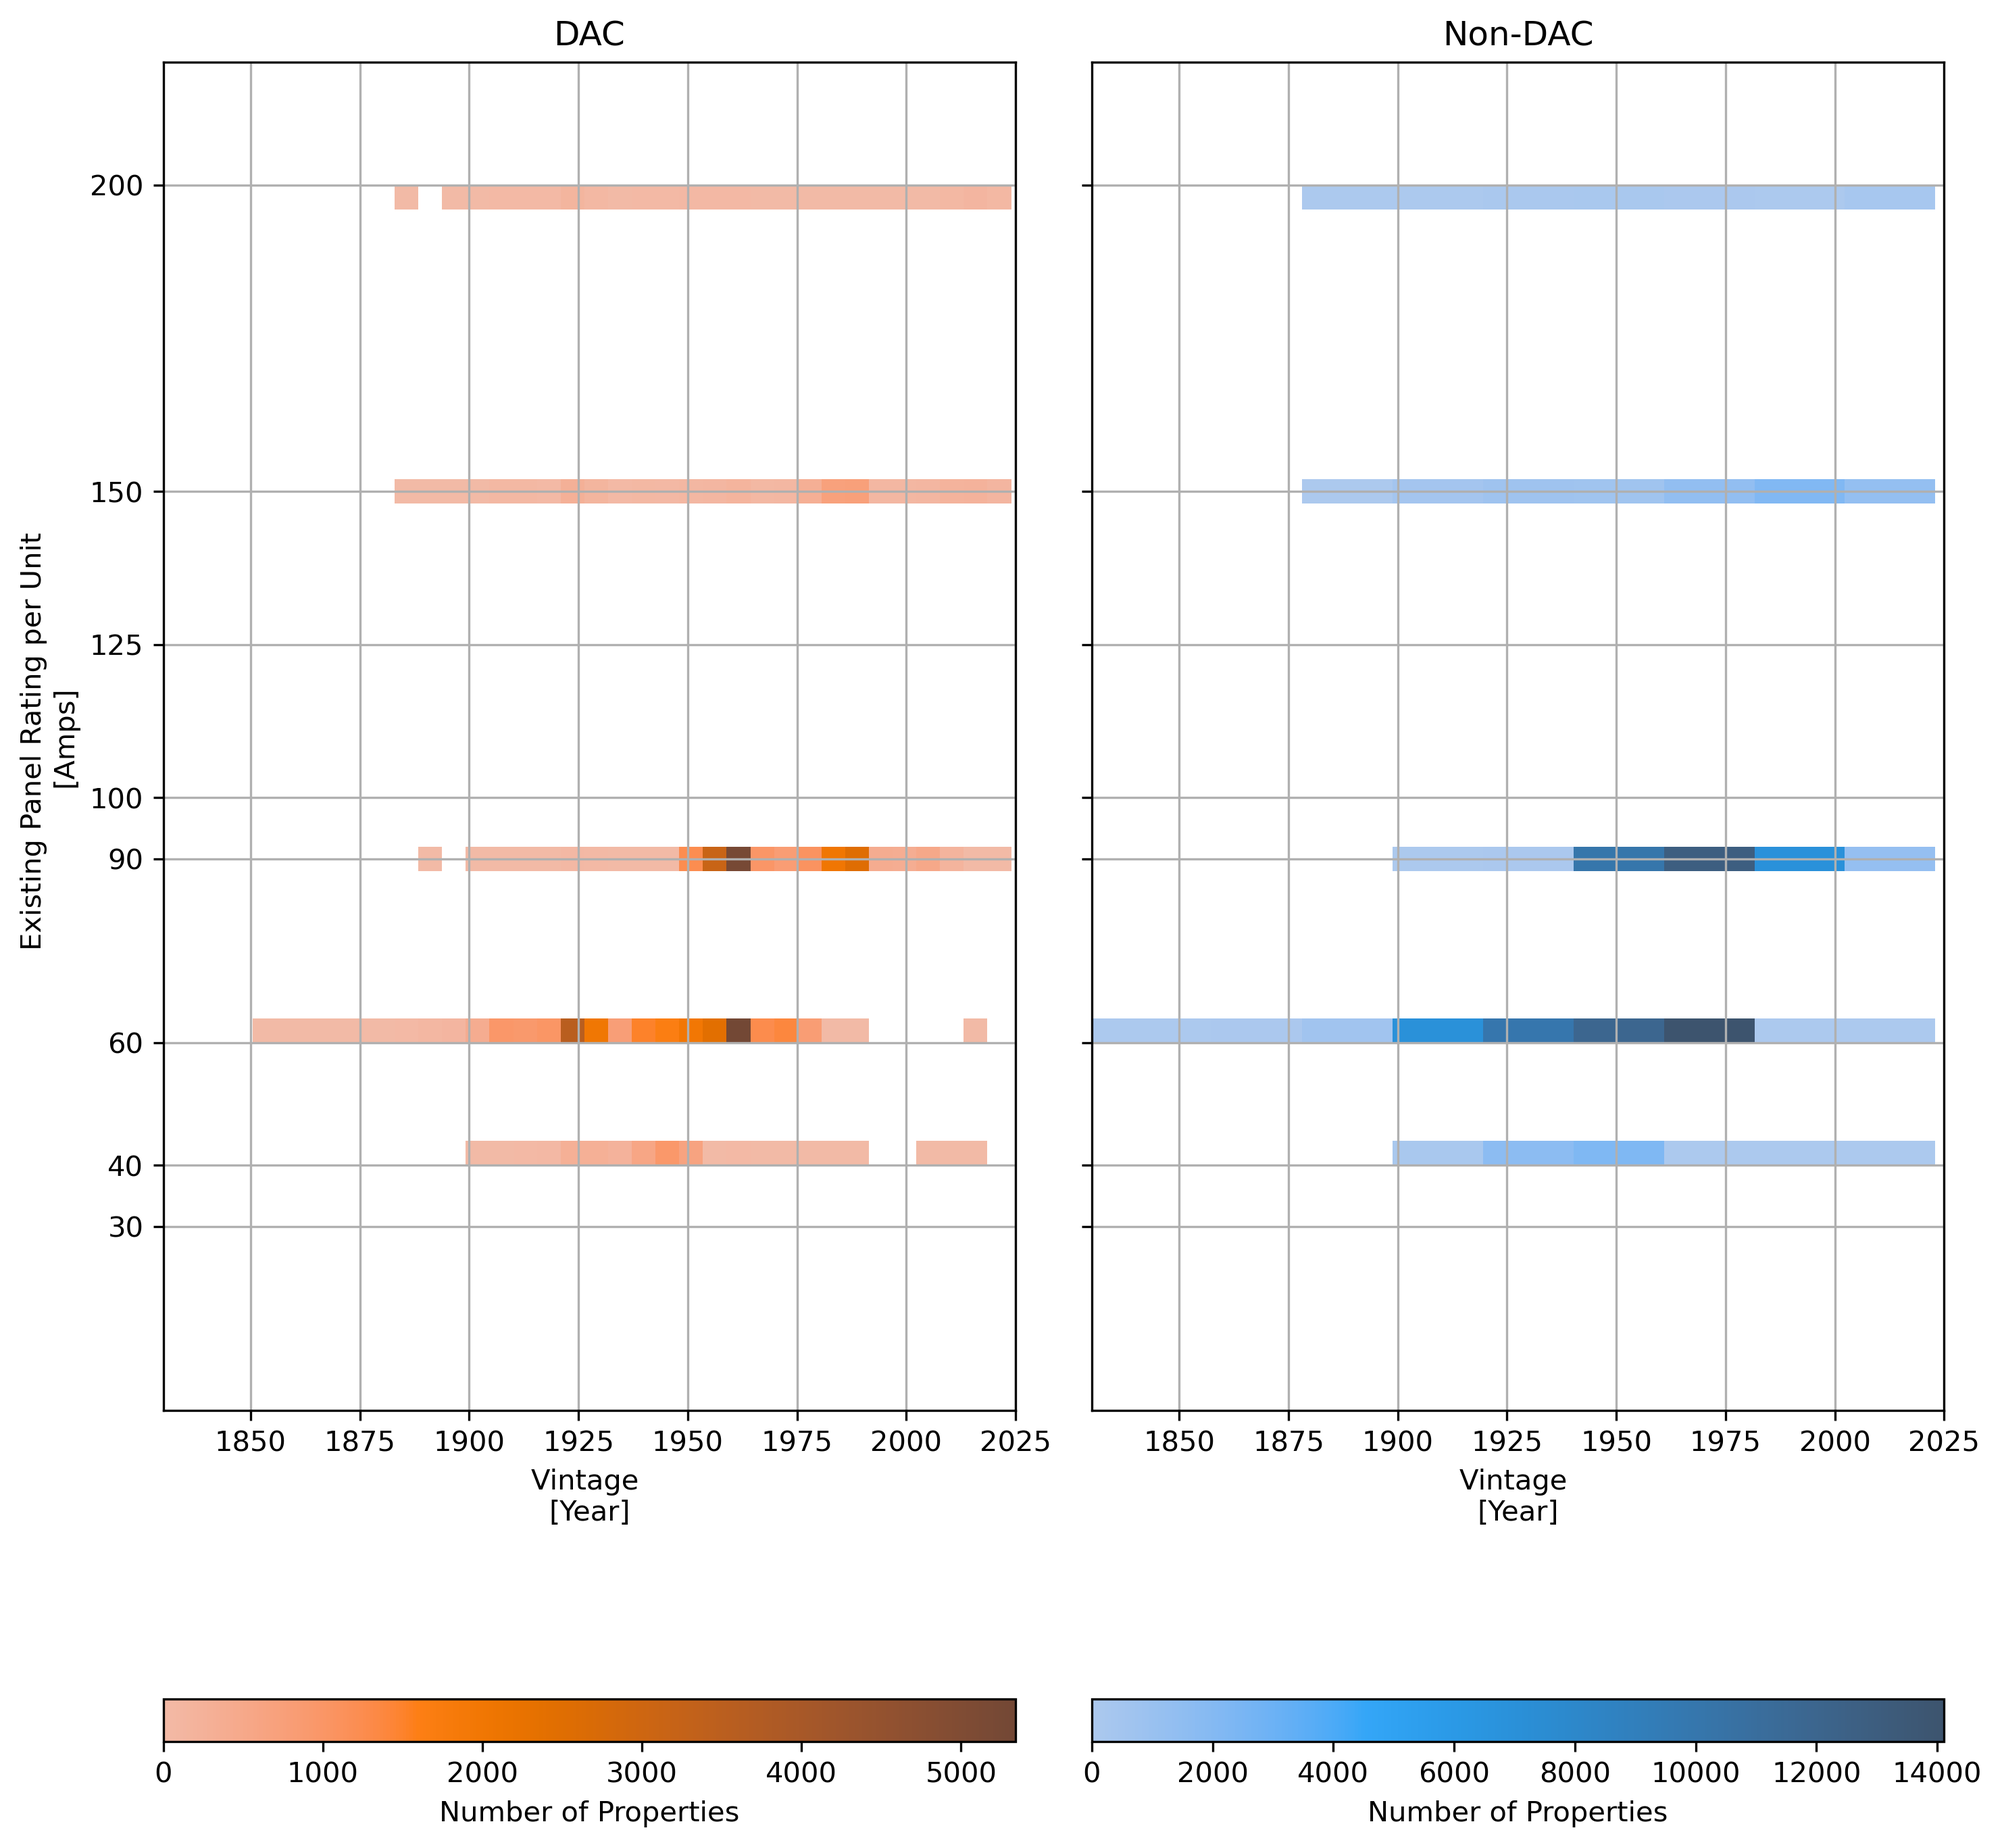
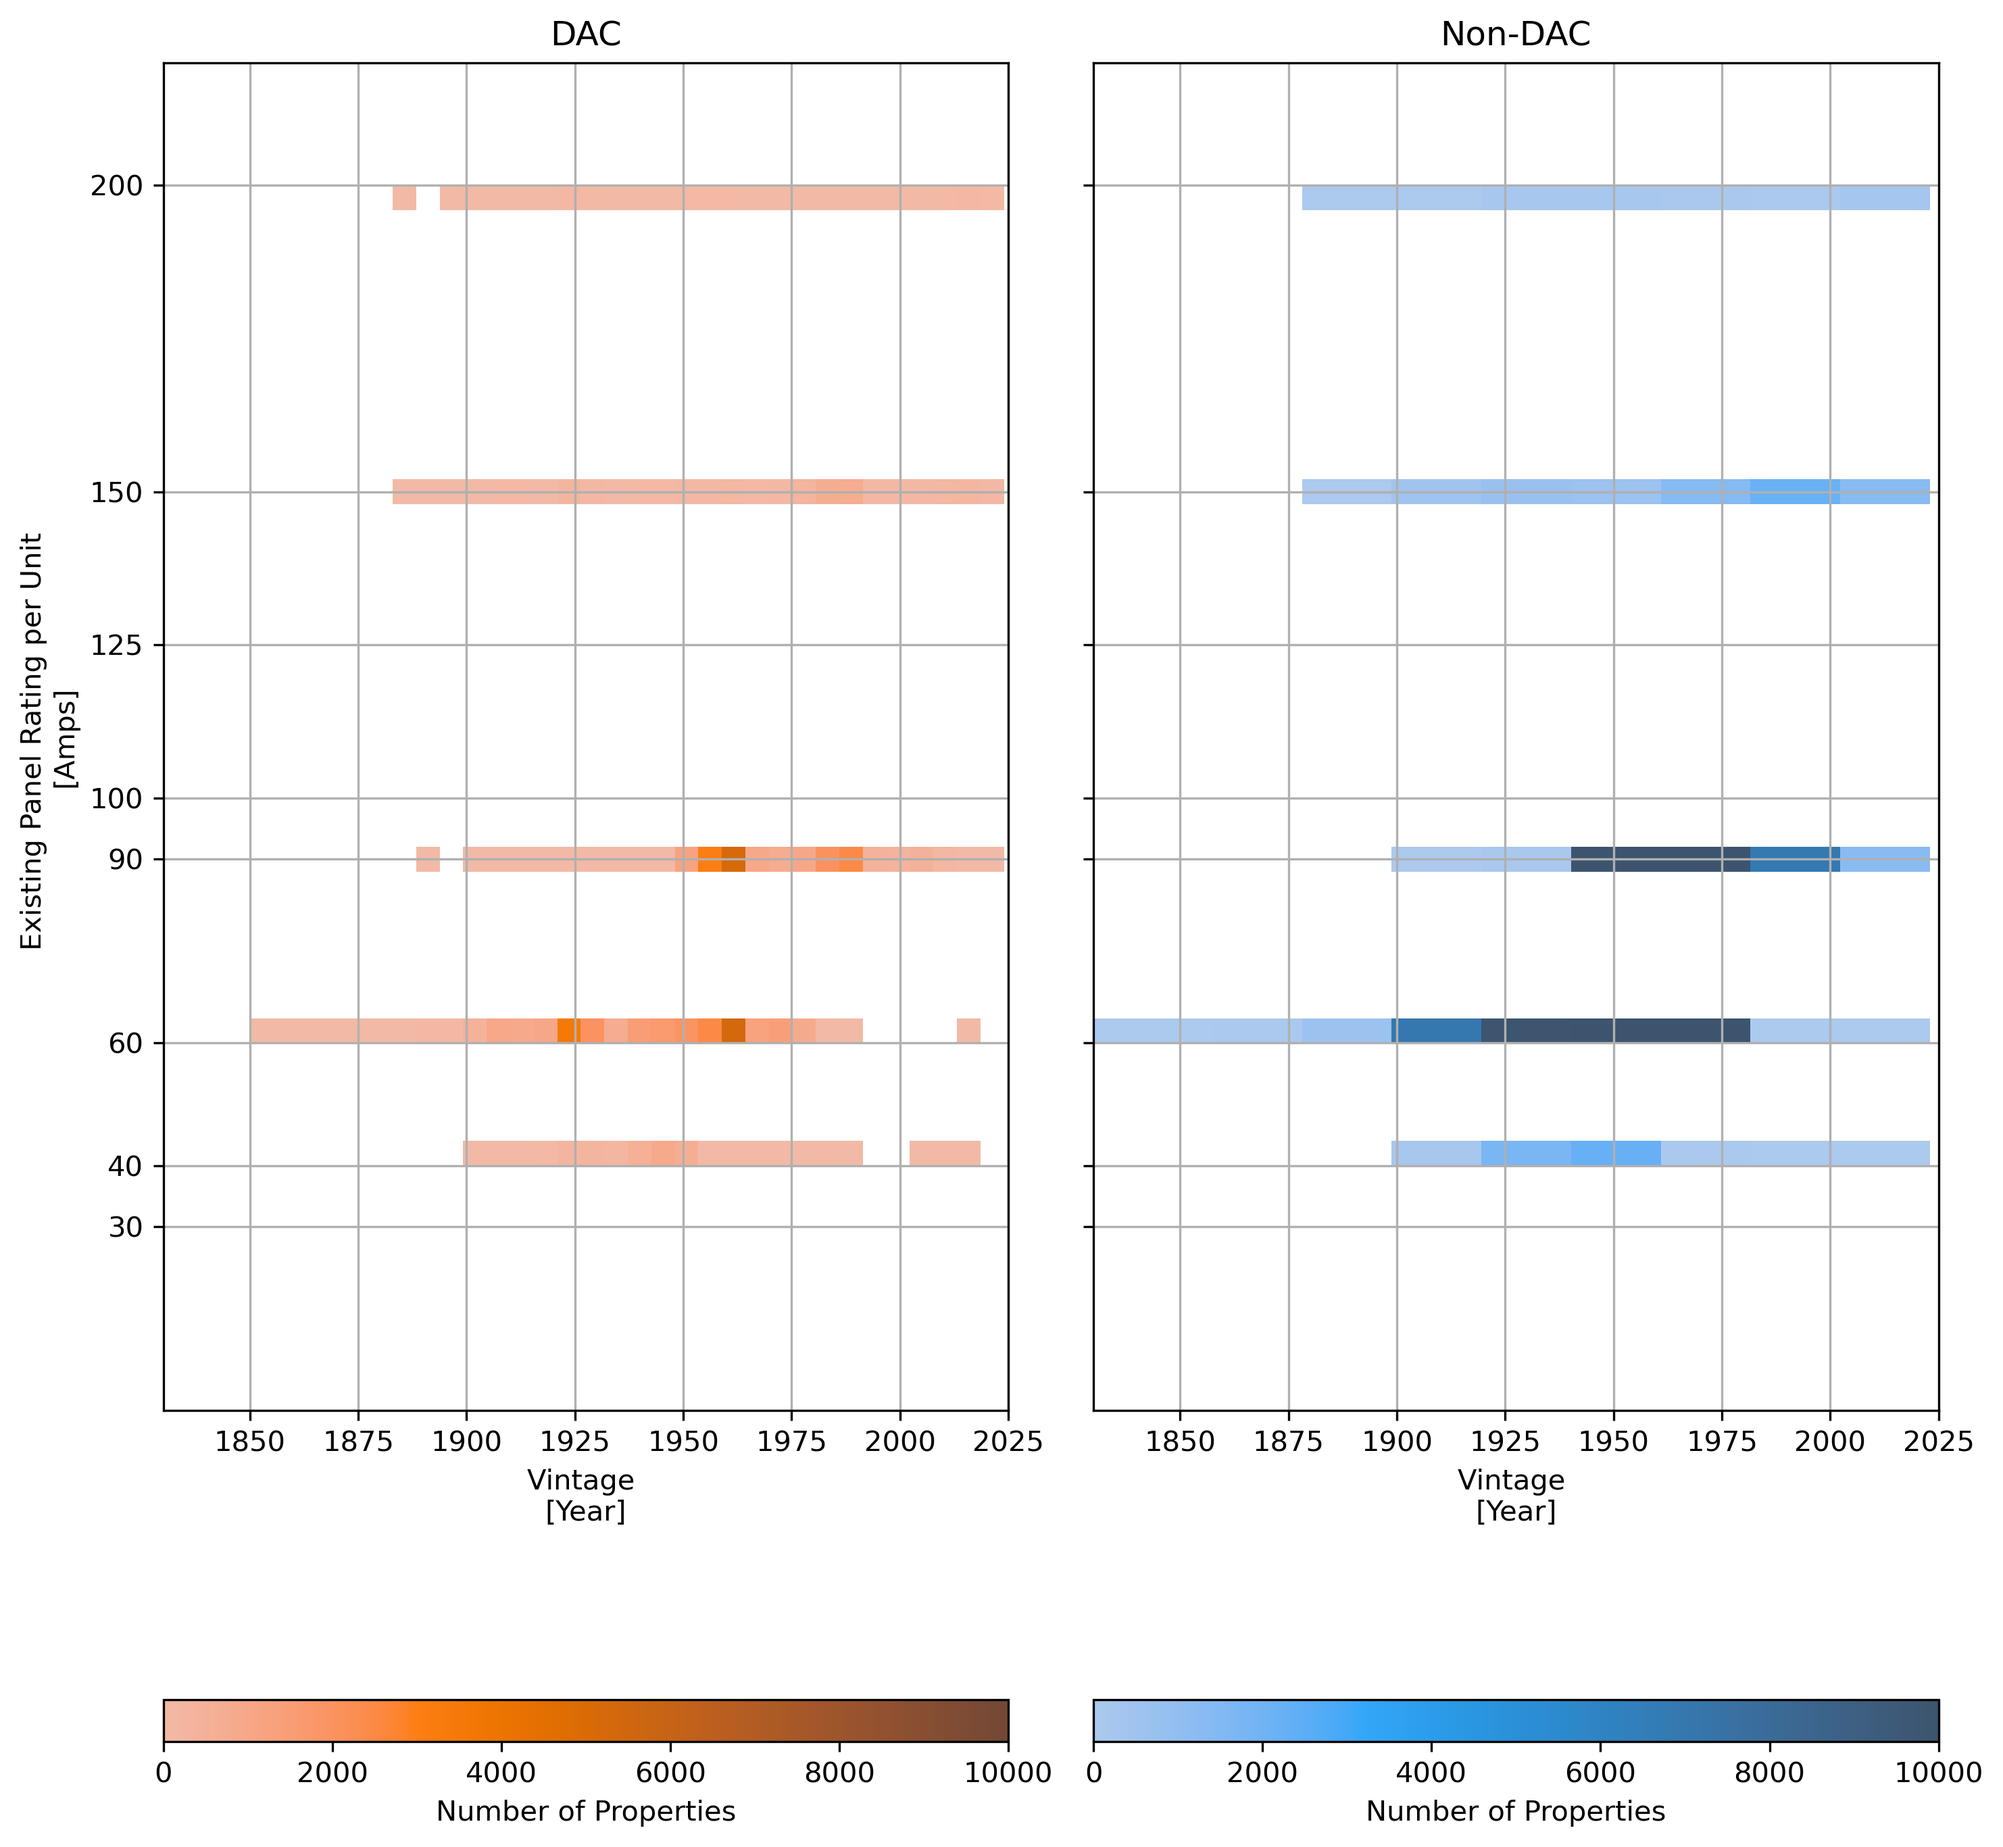
Update plots based upon corelogic vintage year fix

diff --git a/analyses/model_data/corelogic/model_data_analysis.py b/analyses/model_data/corelogic/model_data_analysis.py
@@ -45,8 +45,7 @@ query = ''' SELECT  A.*,
             JOIN corelogic.model_data_sf_inference AS B
                 ON A.megaparcelid = B.megaparcelid
             JOIN corelogic.megaparcels_geocoded_geographies AS C
-                ON A.megaparcelid = C.megaparcelid
-            WHERE A.YearBuilt <= 2024;'''
+                ON A.megaparcelid = C.megaparcelid;'''
 
 sf = pd.read_sql(query, db_con)
 
@@ -368,13 +367,15 @@ def AsBuiltPanelRatingsHist(mp, sector, figure_dir):
         yticks = [30, 60, 100, 125, 150, 200, 225, 320, 400, 600, 800, 1000, 1200]
         bins = 80
         ylabel = 'As-Built Panel Rating \n[Amps]'
+        vmin = 0
+        vmax = 1000000
     elif sector == 'multi_family':
         ylim = [0, 220]
         yticks = [30, 40, 60, 90, 100, 125, 150, 200]
         bins = 40
         ylabel = 'Average As-Built Load Center Rating Per Unit\n[Amps]'
-
-    log_norm = LogNorm(vmin=0, vmax=1000000)
+        vmin = 0
+        vmax = 10000
 
     sns.histplot(x = 'YearBuilt',
         y = 'panel_size_as_built',
@@ -385,8 +386,9 @@ def AsBuiltPanelRatingsHist(mp, sector, figure_dir):
         legend = True,
         label = 'Priority Population',
         cbar = True,
-        cbar_kws = {'label':'Number of Properties', 'orientation':'horizontal'}
-        )
+        cbar_kws = {'label':'Number of Properties', 'orientation':'horizontal'},
+        vmin = vmin,
+        vmax = vmax)
 
     sns.histplot(x = 'YearBuilt',
         y = 'panel_size_as_built',
@@ -397,8 +399,9 @@ def AsBuiltPanelRatingsHist(mp, sector, figure_dir):
         legend = True,
         label = 'Non-Priority Population',
         cbar = True,
-        cbar_kws = {'label':'Number of Properties', 'orientation':'horizontal'}
-        )
+        cbar_kws = {'label':'Number of Properties', 'orientation':'horizontal'},
+        vmin = vmin,
+        vmax = vmax)
 
     ax[0].set_yticks(yticks)
 
@@ -532,11 +535,15 @@ def ExistingPanelRatingsHist(mp, sector, figure_dir):
         ylim = (0, 1220)
         ylabel = 'Existing Panel Rating \n[Amps]'
         bins = 80
+        vmin = 0
+        vmax = 1000000
     elif sector == 'multi_family':
         yticks = [30, 40, 60, 90, 100, 125, 150, 200]
         ylim = (0, 220)
         ylabel = 'Existing Panel Rating per Unit \n[Amps]'
         bins = 40
+        vmin = 0
+        vmax = 10000
 
     fig, ax = plt.subplots(1,2,figsize = (10,10), sharey = True, sharex = True)
 
@@ -549,8 +556,9 @@ def ExistingPanelRatingsHist(mp, sector, figure_dir):
         legend = True,
         label = 'Yes',
         cbar = True,
-        cbar_kws = {'label': 'Number of Properties', 'orientation':'horizontal'}
-        )
+        cbar_kws = {'label': 'Number of Properties', 'orientation':'horizontal'},
+        vmin = vmin,
+        vmax = vmax)
 
     sns.histplot(x = 'YearBuilt',
         y = 'panel_size_existing',
@@ -561,8 +569,9 @@ def ExistingPanelRatingsHist(mp, sector, figure_dir):
         legend = True,
         label = 'No',
         cbar = True,
-        cbar_kws = {'label':'Number of Properties', 'orientation':'horizontal'}
-        )
+        cbar_kws = {'label':'Number of Properties', 'orientation':'horizontal'},
+        vmin = vmin,
+        vmax = vmax)
 
     ax[0].set_yticks(yticks)
 
